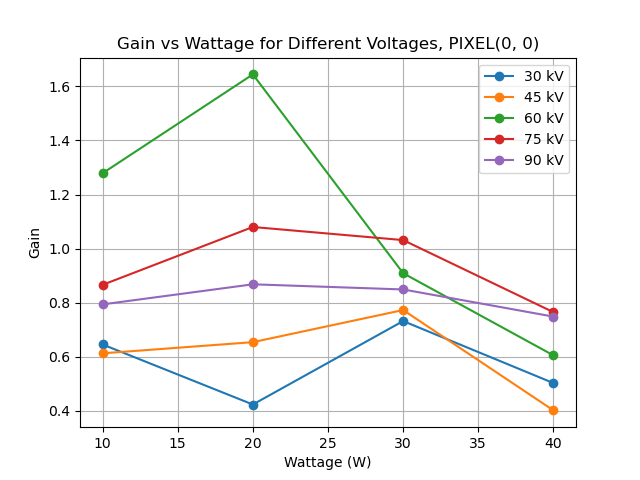
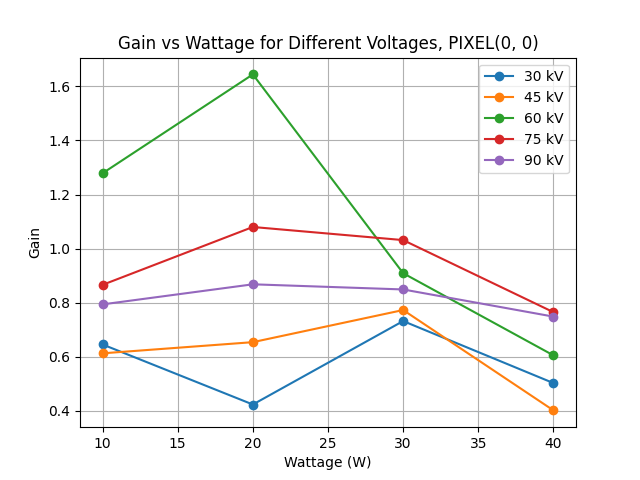
Experimented with generating images
Can generate images, but they look very similar to the average.

diff --git a/gain.py b/gain.py
@@ -1,6 +1,14 @@
 from fileIO import read_np_image_arrays
 import matplotlib.pyplot as plt
+import platform
 import numpy as np
+from imageAnalysis import create_image
+
+if (platform.system() == 'Linux' or platform.system() == 'Darwin'): # darwin = macos
+      SLASH = '/'
+else: # windows
+      SLASH = '\\'
+            
 
 # Available settings
 voltages = [30, 45, 60, 75, 90]
@@ -8,6 +16,28 @@ wattages = [10, 20, 30, 40]
 
 pixel_x = 0
 pixel_y=0
+
+# # (hopefully) Efficient vectorized calculation for the gain for each pixel, stored into an array
+# def full_image_gain(avg_image, var_image):
+#     avg_darkfield = read_np_image_arrays(dist_type='avg')
+#     var_darkfield = read_np_image_arrays(dist_type='var')
+    
+#     true_intensity_avg_image = avg_image - avg_darkfield
+#     # create_image(true_intensity_avg_image, exposure=5)
+#     # create_image(var_image - var_darkfield, exposure=5)
+#     # for i in true_intensity_avg_image:
+#     #     for j in i:
+#     #         print(j)        
+            
+#     with np.errstate(divide='ignore', invalid='ignore'):
+#         true_intensity_avg_image = np.nan_to_num(np.reciprocal(true_intensity_avg_image))
+        
+#     gain_image = (var_image - var_darkfield) * true_intensity_avg_image
+#     create_image(gain_image, exposure=100, filename="gaintest.png")
+
+# avg_image = read_np_image_arrays(voltage_type='30kV/20W',dist_type='avg')
+# var_image = read_np_image_arrays(voltage_type='30kV/20W',dist_type='var')
+# full_image_gain(avg_image, var_image)
 
 # Calculate gain for single pixels
 #------------------------------------------------------------------------------------------
@@ -31,61 +61,62 @@ def gain(images_avg, images_var, pixel_x, pixel_y):
     # print(gain_value)
     return gain_value
 
-#make directory to save gain per setting
-gain_by_voltage = {}
+def plot_gain():
+    #make directory to save gain per setting
+    gain_by_voltage = {}
 
-#loop over all settings
-for voltage in voltages:
-    gain_lst = []
+    #loop over all settings
+    for voltage in voltages:
+        gain_lst = []
 
-    for watt in wattages:
-        folder = f"{voltage}kV\\{watt}W"
-        images_avg = read_np_image_arrays(voltage_type=folder, dist_type='avg')
-        images_var = read_np_image_arrays(voltage_type=folder, dist_type='var')
+        for watt in wattages:
+            folder = f"{voltage}kV{SLASH}{watt}W"
+            images_avg = read_np_image_arrays(voltage_type=folder, dist_type='avg')
+            images_var = read_np_image_arrays(voltage_type=folder, dist_type='var')
 
-        gain_value = gain(images_avg, images_var, pixel_x, pixel_y)
-        gain_lst.append(gain_value)
+            gain_value = gain(images_avg, images_var, pixel_x, pixel_y)
+            gain_lst.append(gain_value)
 
-        print(f"{voltage} kV, {watt} W: gain = {gain_value}")
+            print(f"{voltage} kV, {watt} W: gain = {gain_value}")
 
-    gain_by_voltage[voltage] = gain_lst
+        gain_by_voltage[voltage] = gain_lst
 
-    # RESULTS:
-    # 30 kV, 10 W: gain = 0.49732066565733396
-    # 30 kV, 20 W: gain = 0.49658032272206576
-    # 30 kV, 30 W: gain = 0.4974014623766823
-    # 30 kV, 40 W: gain = 0.4982955189648602
-    # 45 kV, 10 W: gain = 0.7079770380980214
-    # 45 kV, 20 W: gain = 0.708662168281262
-    # 45 kV, 30 W: gain = 0.7082068231686385
-    # 45 kV, 40 W: gain = 0.7096467542608949
-    # 60 kV, 10 W: gain = 0.8551124239661559
-    # 60 kV, 20 W: gain = 0.8563697851525969
-    # 60 kV, 30 W: gain = 0.8579282804948085
-    # 60 kV, 40 W: gain = 0.8594508876470477
-    # 75 kV, 10 W: gain = 0.9843940511669307
-    # 75 kV, 20 W: gain = 0.9846795218421803
-    # 75 kV, 30 W: gain = 0.9861696699784297
-    # 75 kV, 40 W: gain = 0.9851329470417651
-    # 90 kV, 10 W: gain = 1.1098482204501892
-    # 90 kV, 20 W: gain = 1.1124966302890238
-    # 90 kV, 30 W: gain = 1.1120634555658473
-    # 90 kV, 40 W: gain = 1.1119043705511888
-# --------------------------------------------------------------------------------------------
+        # RESULTS:
+        # 30 kV, 10 W: gain = 0.49732066565733396
+        # 30 kV, 20 W: gain = 0.49658032272206576
+        # 30 kV, 30 W: gain = 0.4974014623766823
+        # 30 kV, 40 W: gain = 0.4982955189648602
+        # 45 kV, 10 W: gain = 0.7079770380980214
+        # 45 kV, 20 W: gain = 0.708662168281262
+        # 45 kV, 30 W: gain = 0.7082068231686385
+        # 45 kV, 40 W: gain = 0.7096467542608949
+        # 60 kV, 10 W: gain = 0.8551124239661559
+        # 60 kV, 20 W: gain = 0.8563697851525969
+        # 60 kV, 30 W: gain = 0.8579282804948085
+        # 60 kV, 40 W: gain = 0.8594508876470477
+        # 75 kV, 10 W: gain = 0.9843940511669307
+        # 75 kV, 20 W: gain = 0.9846795218421803
+        # 75 kV, 30 W: gain = 0.9861696699784297
+        # 75 kV, 40 W: gain = 0.9851329470417651
+        # 90 kV, 10 W: gain = 1.1098482204501892
+        # 90 kV, 20 W: gain = 1.1124966302890238
+        # 90 kV, 30 W: gain = 1.1120634555658473
+        # 90 kV, 40 W: gain = 1.1119043705511888
+    # --------------------------------------------------------------------------------------------
 
-# Plot wattage against gain for every constant voltage
-for voltage, gains in gain_by_voltage.items():
-    plt.plot(wattages, gains, marker="o", label=f"{voltage} kV")
+    # Plot wattage against gain for every constant voltage
+    for voltage, gains in gain_by_voltage.items():
+        plt.plot(wattages, gains, marker="o", label=f"{voltage} kV")
 
-plt.xlabel("Wattage (W)")
-plt.ylabel("Gain")
-plt.title(f"Gain vs Wattage for Different Voltages, PIXEL{pixel_x, pixel_y}")
-plt.legend()
-plt.grid(True, which="both")
-plt.savefig(f"gain pixel({pixel_x}, {pixel_y}).png")
-plt.show()
+    plt.xlabel("Wattage (W)")
+    plt.ylabel("Gain")
+    plt.title(f"Gain vs Wattage for Different Voltages, PIXEL{pixel_x, pixel_y}")
+    plt.legend()
+    plt.grid(True, which="both")
+    plt.savefig(f"gain pixel({pixel_x}, {pixel_y}).png")
+    plt.show()
 
-
+plot_gain()
 # Calculate gain with the average values of entire image (avg avg and avg var)- !!!not in use!!!
 # --------------------------------------------------------------------------------------
 # def gain(images_avg, images_var, avg_dark, var_dark):

diff --git a/imageAnalysis.py b/imageAnalysis.py
@@ -10,7 +10,7 @@ VOLTAGES: set = {'30', '45', '60', '75', '90'}
 WATTAGES: set = {'10', '20', '30', '40'}
 COUNTS = 20
 BIGCOUNTS = 512
-FIVETWELVERECIPROCAL = 1/20
+ONEOVERTENTWENTYFOUR = 1/20
 
 # take all the files within some folder e.g. 75kV/10W/, and then averages all their values into a single new image
 def average_full_images(images, voltage_type = 'darkfield', save_file = False):
@@ -23,7 +23,7 @@ def average_full_images(images, voltage_type = 'darkfield', save_file = False):
       sum_array: np.ndarray = images[:, :, 0]
       for z in range(1, depth):
             sum_array = sum_array + images[:, :, z]
-      avg_array_xy = sum_array * FIVETWELVERECIPROCAL
+      avg_array_xy = sum_array * ONEOVERTENTWENTYFOUR
       if save_file:
             dirname: str = os.path.dirname(p = __file__)
             # remove the slash from the filename
@@ -54,7 +54,7 @@ def variance_full_images(images, avg_array, voltage_type = 'darkfield', save_fil
       #       print("ex2", Ex2[0,0],
       #             "ex", Ex[0,0])
       # print("EXes", Ex[0,0], Ex2[0,0])
-      var_array_xy = (Ex2 - Ex**2 * FIVETWELVERECIPROCAL) / (COUNTS)
+      var_array_xy = (Ex2 - Ex**2 * ONEOVERTENTWENTYFOUR) / (COUNTS)
       # print("mewhen", var_array_xy[0,0],get_variance_single_pixel(images, 0,0) )
       end = time.time()
       print(end - start)
@@ -82,7 +82,20 @@ def create_image(image, exposure = 1, filename = 'result.png'):
       picture: Image = Image.fromarray(obj = (image.transpose()).astype(np.uint16))
       picture.save(filename)
       
-def create_flatfield_images(save_image = False): # very long function, do not run if the files are already created!
+def create_images(save_image = False, parent_directory_name = "Numpy image arrays"): # very long function, do not run if the files are already created!
+      dirname: str = os.path.dirname(p = __file__)
+      path: str = 'darkfield'
+      images: np.ndarray = images_to_array(voltage_type = path)
+      avg: np.ndarray = average_full_images(images = images, voltage_type = path, save_file = True)
+      var: np.ndarray = variance_full_images(images = images, avg_array=avg,  voltage_type = path, save_file = True)
+      
+      if save_image:
+            safe_path: str = path[:4] + path[5:]
+            full_path: str = f"{dirname}{SLASH}{parent_directory_name}{SLASH}{path}{SLASH}avg_array_{safe_path}.png"
+            create_image(image = avg, filename = full_path)
+            full_path = f"{dirname}{SLASH}{parent_directory_name}{SLASH}{path}{SLASH}var_array_{safe_path}.png"
+            create_image(image = var, filename = full_path)   
+             
       dirname: str = os.path.dirname(p = __file__)          
       for voltage in VOLTAGES:
             for wattage in WATTAGES:
@@ -94,24 +107,24 @@ def create_flatfield_images(save_image = False): # very long function, do not ru
                   
                   if save_image:
                         safe_path: str = path[:4] + path[5:]
-                        full_path: str = f"{dirname}/Numpy image arrays/{path}/avg_array_{safe_path}.png"
+                        full_path: str = f"{dirname}{SLASH}{parent_directory_name}/{path}{SLASH}avg_array_{safe_path}.png"
                         create_image(image = avg, filename = full_path)
-                        full_path = f"{dirname}/Numpy image arrays/{path}/var_array_{safe_path}.png"
+                        full_path = f"{dirname}{SLASH}{parent_directory_name}/{path}{SLASH}var_array_{safe_path}.png"
                         create_image(image = var, filename = full_path)
-            
-def create_darkfield_images(save_image = False): #another function to create files, do not run unless these files do not exist
+                          
+def create_folder_structure(parent_directory_name = "test"):
       dirname: str = os.path.dirname(p = __file__)
-      path: str = 'darkfield'
-      images: np.ndarray = images_to_array(voltage_type = path)
-      avg: np.ndarray = average_full_images(images = images, voltage_type = path, save_file = True)
-      var: np.ndarray = variance_full_images(images = images, avg_array=avg,  voltage_type = path, save_file = True)
-      
-      if save_image:
-            safe_path: str = path[:4] + path[5:]
-            full_path: str = f"{dirname}/Numpy image arrays/{path}/avg_array_{safe_path}.png"
-            create_image(image = avg, filename = full_path)
-            full_path = f"{dirname}/Numpy image arrays/{path}/var_array_{safe_path}.png"
-            create_image(image = var, filename = full_path)    
-              
+      parent_directory_path: str = f'{dirname}{SLASH}{parent_directory_name}{SLASH}'
+      os.mkdir(parent_directory_path)
+      os.mkdir(f'{parent_directory_path}darkfield{SLASH}')
+      for voltage in VOLTAGES:
+            voltage_directory = f"{parent_directory_path}{voltage}kV{SLASH}"
+            os.mkdir(voltage_directory)
+            for wattage in WATTAGES:
+                  wattage_directory_path: str = f"{voltage_directory}{wattage}W{SLASH}"
+                  os.mkdir(wattage_directory_path)
+                  print(parent_directory_path)
+                  
 # create_darkfield_images(save_image=True)
 # create_flatfield_images(save_image=True)
+# create_folder_structure()

diff --git a/parametersToImage.py b/parametersToImage.py
@@ -1,0 +1,18 @@
+import numpy as np
+from imageAnalysis import *
+# outline:
+#       take average images for some voltage, then add gaussian standard deviations to it, 
+#       this is for every pixel individually. then we also somehow, at some stage need to add blur gaussian 
+#       let's do the gaussian blur later, start with going from an average image to some generated sample image
+
+def parameters_to_image(avg_image, var_image):
+      sigma_image = np.sqrt(var_image)
+      # sigma_image =var_image
+      generated_image = np.random.normal(avg_image, sigma_image)
+      create_image(generated_image, exposure=3, filename='randomimage30kv40w.png')
+      create_image(avg_image, exposure=3, filename='comparisonimage.png')
+      
+
+avg_image = read_np_image_arrays("30kV/10W", dist_type='avg')
+var_image = read_np_image_arrays("30kV/10W", dist_type='var')
+parameters_to_image(avg_image, var_image)